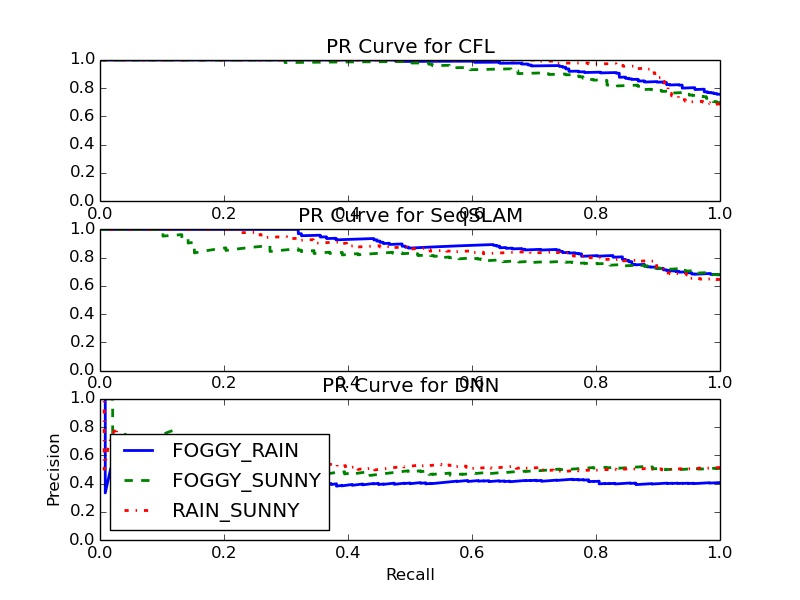
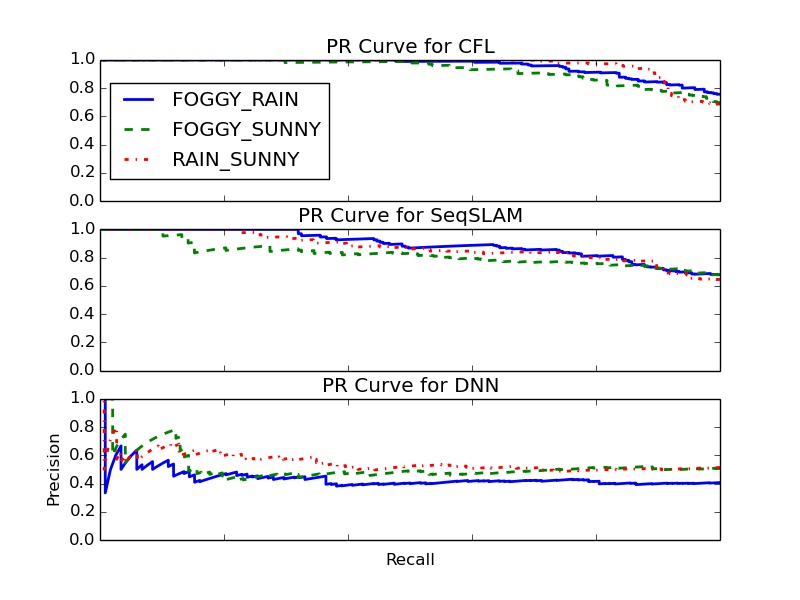
ok

diff --git a/src/plot/plotPaper3.py b/src/plot/plotPaper3.py
@@ -52,11 +52,11 @@ def Plot_Paper3(args):
                 precision, recall, _ = precision_recall_curve(match[:, 0], match[:, 1])
                 axarr[method_id].plot(recall, precision, lw=2, linestyle=linestyle[weather_id%3], label='Precision-Recall curve')
                 axarr[method_id].set_title('PR Curve for '+change_method[method_id])
-                axarr[method_id].set_xlim(0.0, 1.0)
+                axarr[method_id].set_xticklabels([])
                 axarr[method_id].set_ylim(0.0, 1.0)
                 legend.append(weather_name)
 
-        plt.legend(legend, loc='lower left')
+        plt.legend(legend, loc='center left', bbox_to_anchor=(0.0, 2.9))
         plt.xlabel('Recall')
         plt.ylabel('Precision')
         plt.savefig(route_name+'_'+'_PR.jpg')
